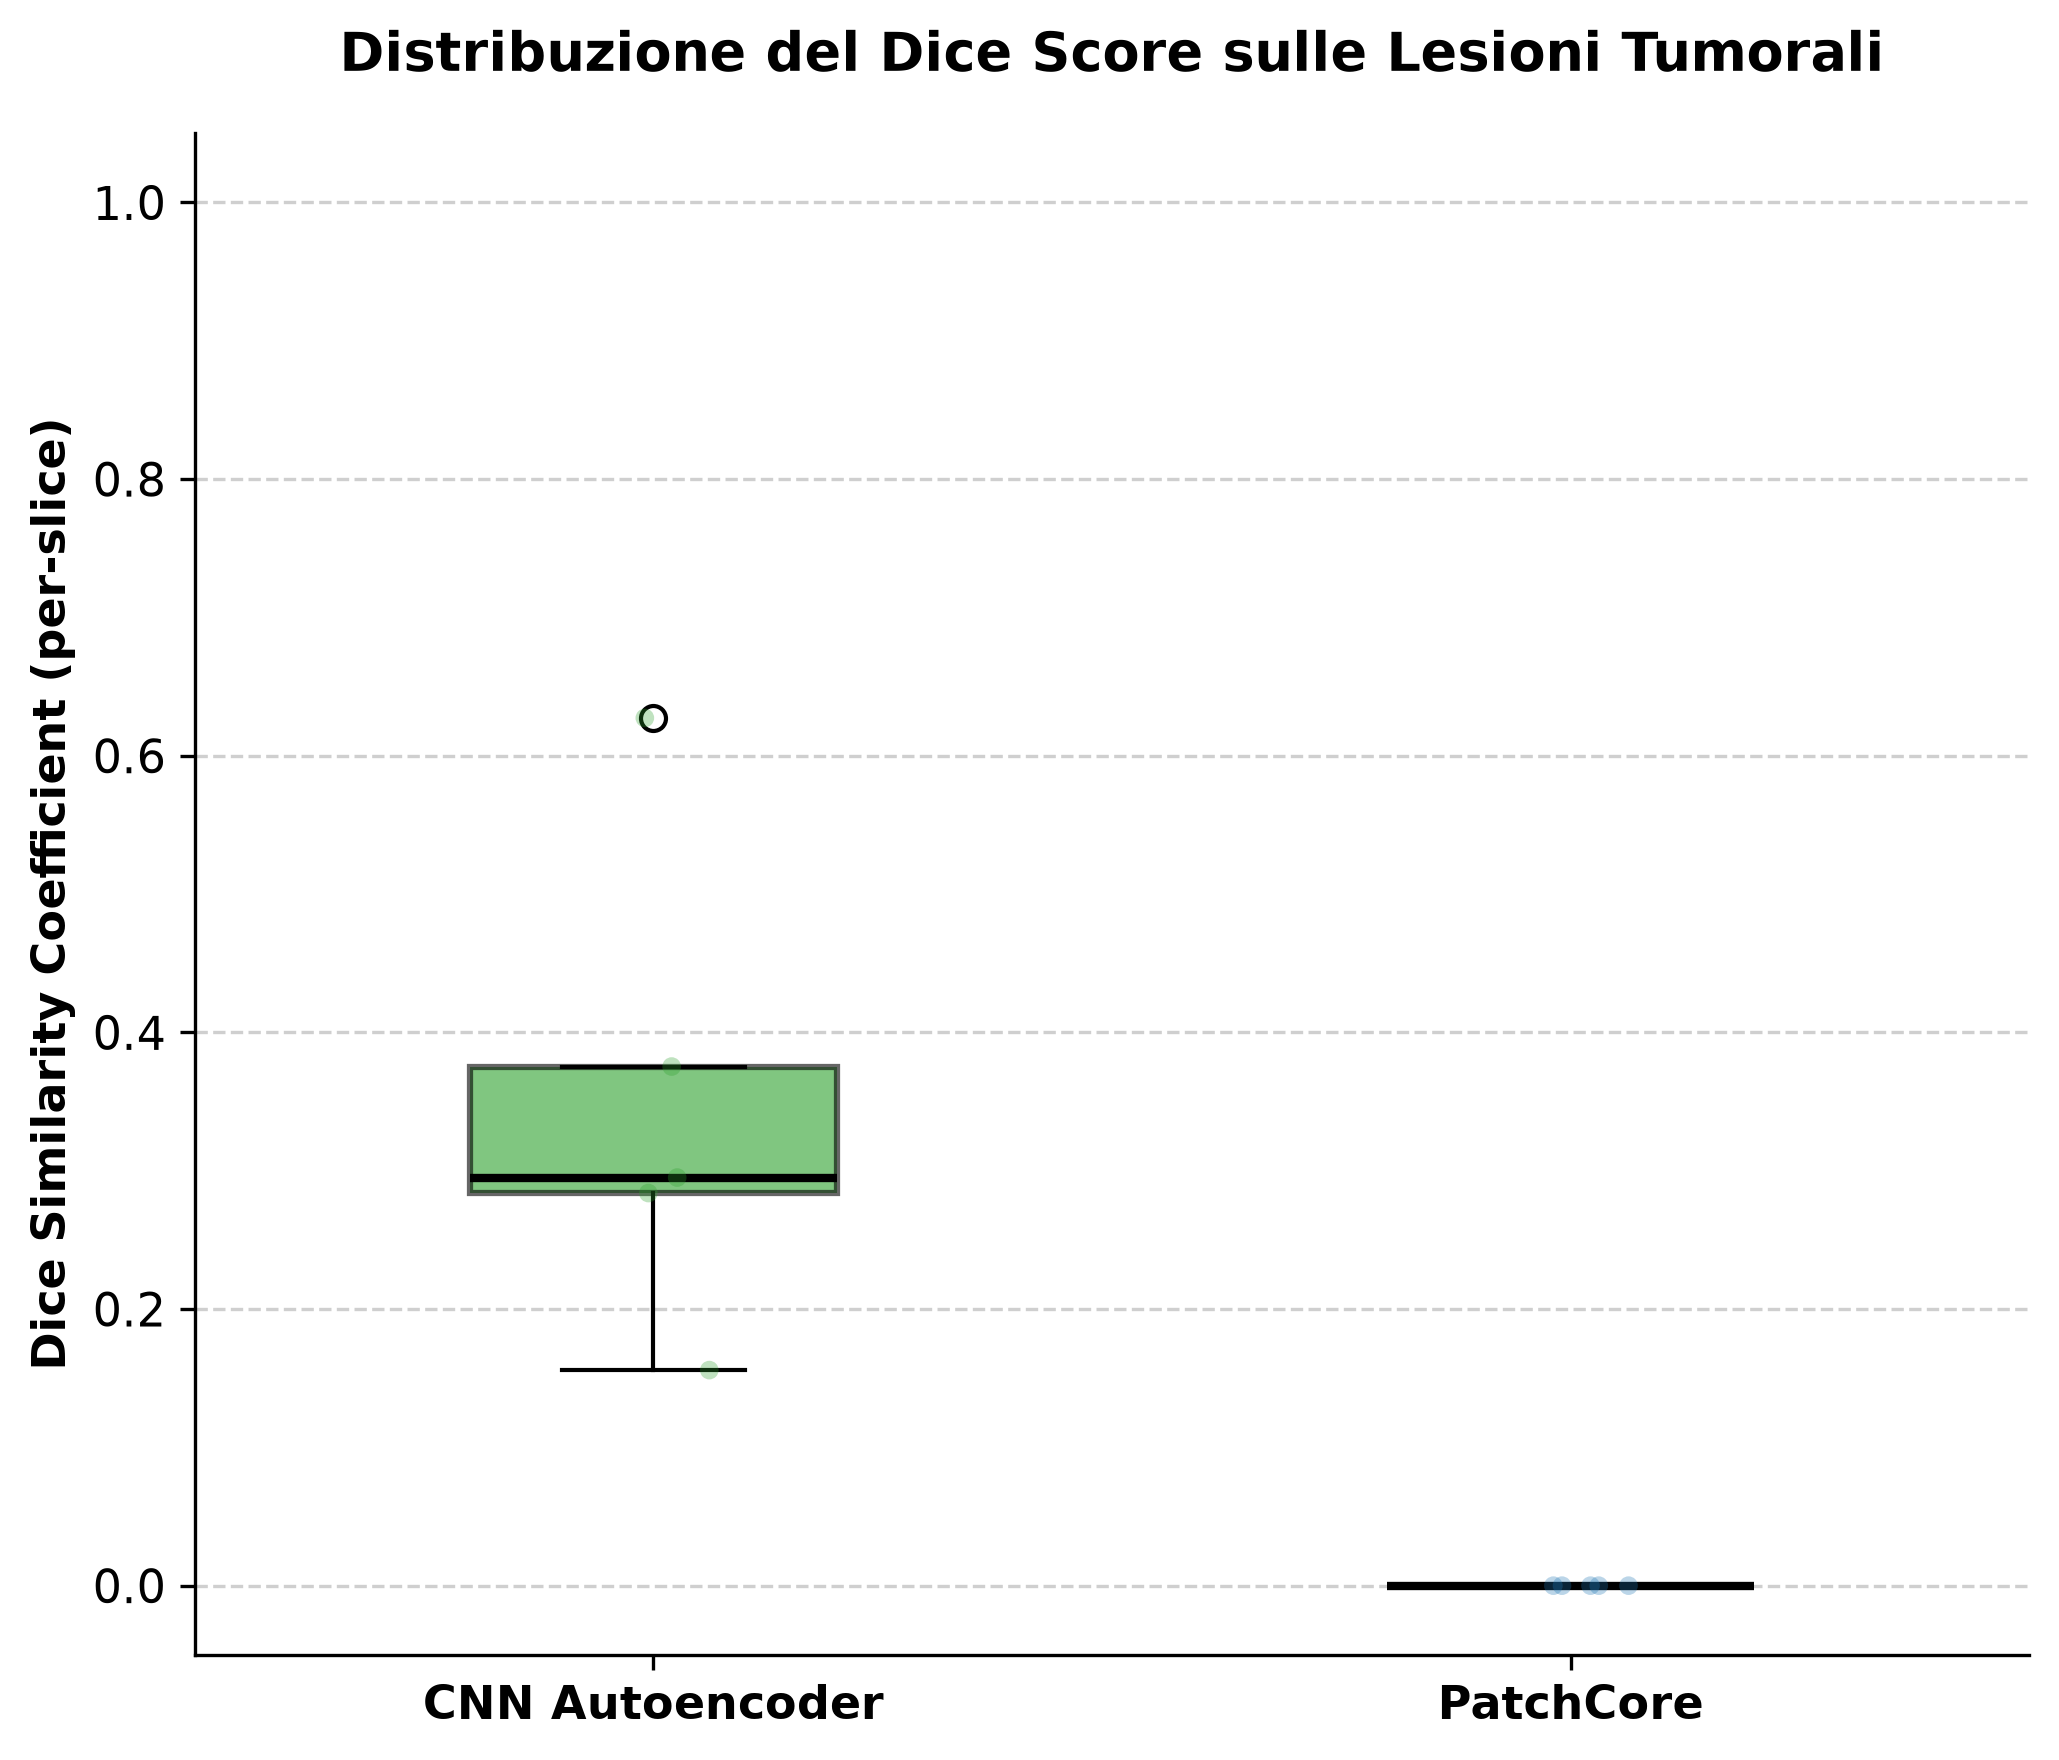
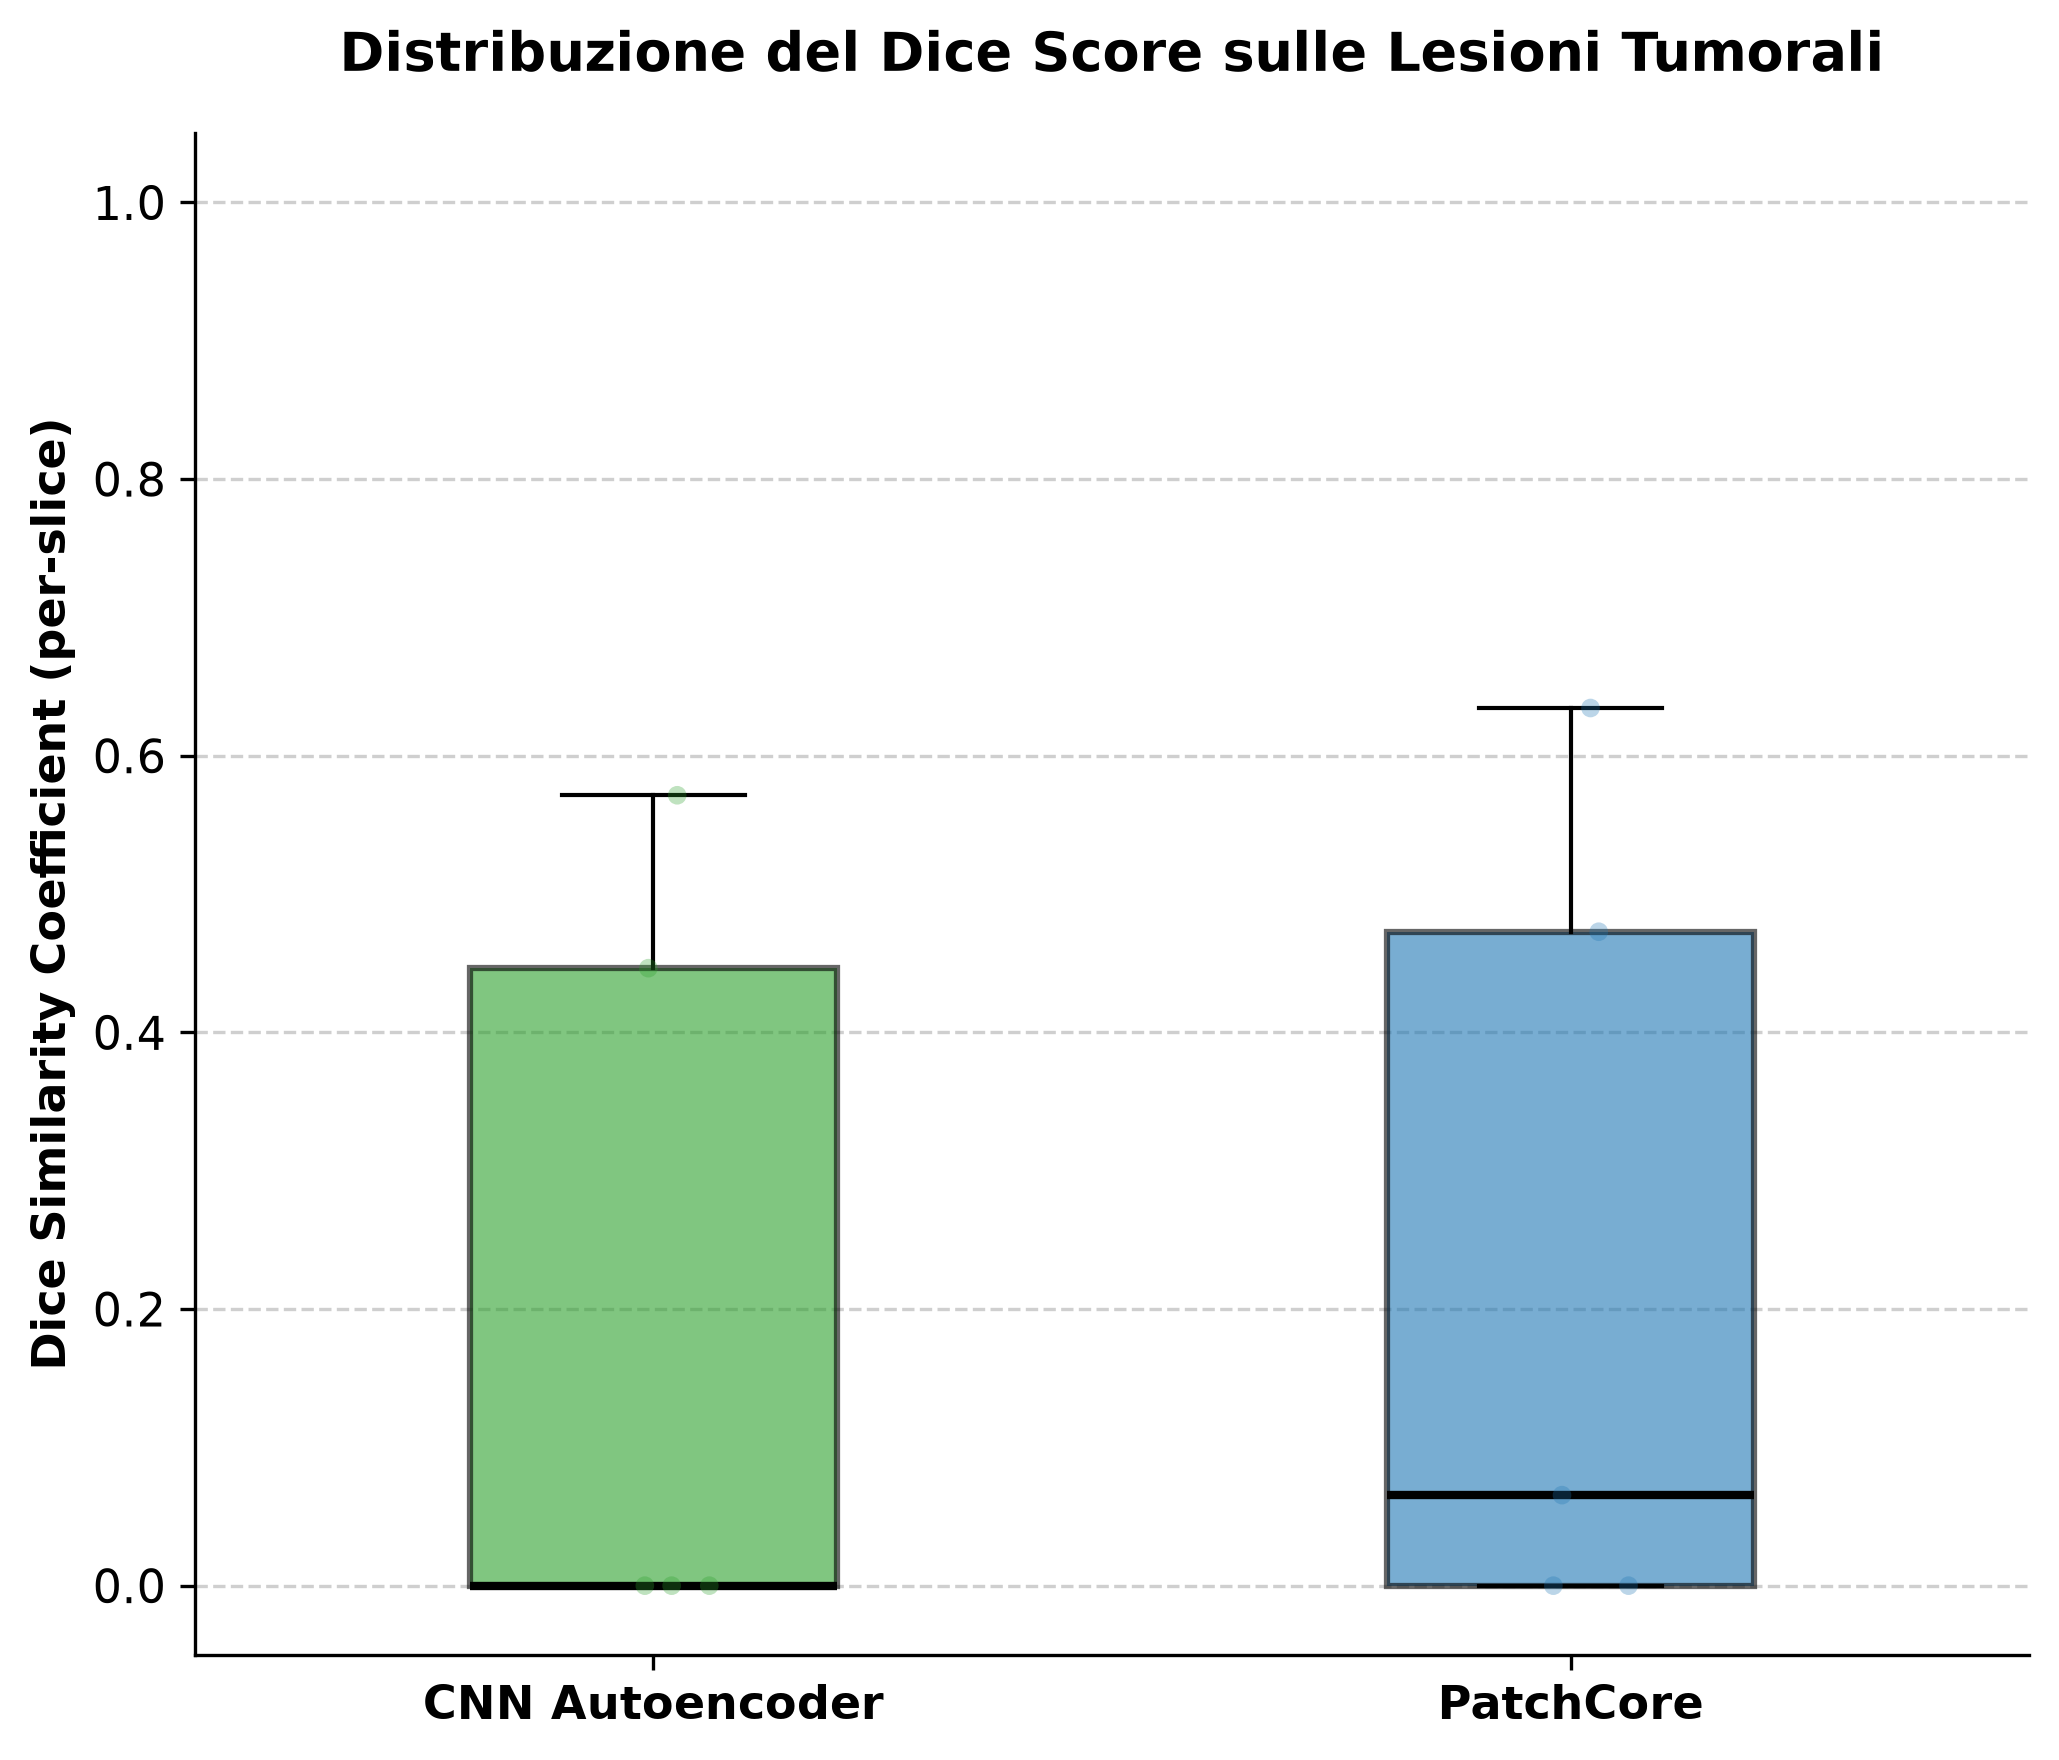
Dice score

diff --git a/src/final_plot.py b/src/final_plot.py
@@ -303,8 +303,8 @@ def plot_dice_boxplot():
             tumor_indices.append(i)
 
     models_info = {
-        "CNN Autoencoder": {"dir": "results/cnn_autoencoder2_nofc_mse_l1_pp/anomaly_maps", "threshold": 0.045},
-        "PatchCore": {"dir": "results/patchcore/anomaly_maps", "threshold": 2.15}
+        "CNN Autoencoder": {"dir": "results/cnn_autoencoder2_nofc_mse_l1_pp/anomaly_maps", "threshold": 0.124},
+        "PatchCore": {"dir": "results/patchcore/anomaly_maps", "threshold": 1.154}
     }
 
     dice_results = {}
